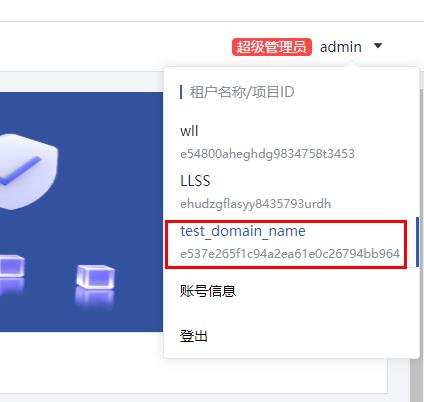
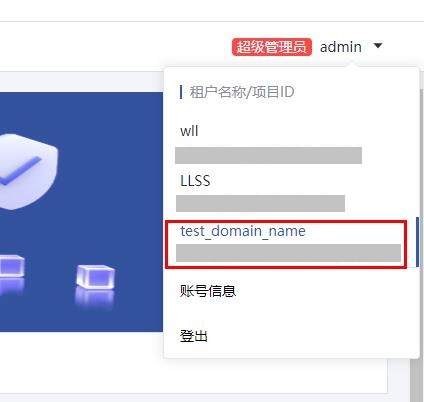
增加创建公网私网操作
Match-id-5990a755595d741aad8fd357a0e73ab055a3bb46

Changed region(s): [[0.3679, 0.5672, 0.9811, 0.6866], [0.3986, 0.4776, 0.9505, 0.5672], [0.3986, 0.3582, 0.8585, 0.4179]]

diff --git a/doc/user-guide/fleet/fleet-management.md b/doc/user-guide/fleet/fleet-management.md
@@ -89,3 +89,45 @@
 ![delete_fleet](../../../img/fleet/delete_fleet.PNG)
 
 4.在弹出的对话框中，单击”确定“。
+
+
+
+## 指定在不同VPC创建fleet
+
+服务组件之间默认使用内网通信，如果需要将fleet创建在其他VPC下，需要修改服务组件安全组，以及服务组件的启动参数
+
+### 操作步骤
+
+1. 确保fleetmanager配置路径/home/fleetmanager/configmap下的fleetmanager_run.sh脚本已配置所有服务组件的入站规则，确保appgateway和aass的**所有节点**的公网IP都已填入
+
+   ```shell
+       "internal_inbound_permissions": [
+           {
+               "protocol": "TCP",
+               "ip_range": "{appgateway_host}/32",
+               "from_port": 60001,
+               "to_port": 60001
+           },
+           {
+               "protocol": "TCP",
+               "ip_range": "{aass_host}/32",
+               "from_port": 9091,
+               "to_port": 9091 
+           }
+       ],
+   ```
+   
+2. 修改appgateway服务组件/home/appgateway_/bin/appgateway_run.sh参数，修改使用公网通信，保存后重启服务组件
+
+   ```shell
+   export AUXPROXY_IP_TYPE=publicIP #appgateway与auxproxy通信的ip类型:publicIP/privateIP
+   ```
+
+3. 和aass服务组件/home/aass/bin/aass_run.sh参数，修改使用公网通信，保存后重启服务组件
+
+   ```shell
+   # 与auxproxy连接的方式，默认为私网
+   export CONNECT_TO_AUXPROXY_BY_IP=publicIP #aass与auxproxy通信的ip类型:publicIP/privateIP
+   ```
+
+   

diff --git a/doc/user-guide/getting-started.md b/doc/user-guide/getting-started.md
@@ -92,7 +92,8 @@
 + 进入创建fleet界面
 ![创建fleet入口](../../img/fleet/create-fleet-input.jpg)
 
-+ 填写创建fleet的相关信息，支持json格式的文件导入
++ 填写创建fleet的相关信息，支持json格式的文件导入；
++ **注意：为了服务安全，服务组件之间默认使用的是内网通信，因此需要手动选择部署时创建的VPC（即服务组件所在VPC），如果需要支持不同的VPC下创建fleet，需要修改安全组以及启动脚本参数，详情见创建Fleet指导文件**[创建fleet指导](fleet/fleet-management.md) “指定在不同VPC创建fleet”章节
 ![创建fleet](../../img/fleet/create-fleet.jpg)
 
 + 点击创建，开始创建fleet
